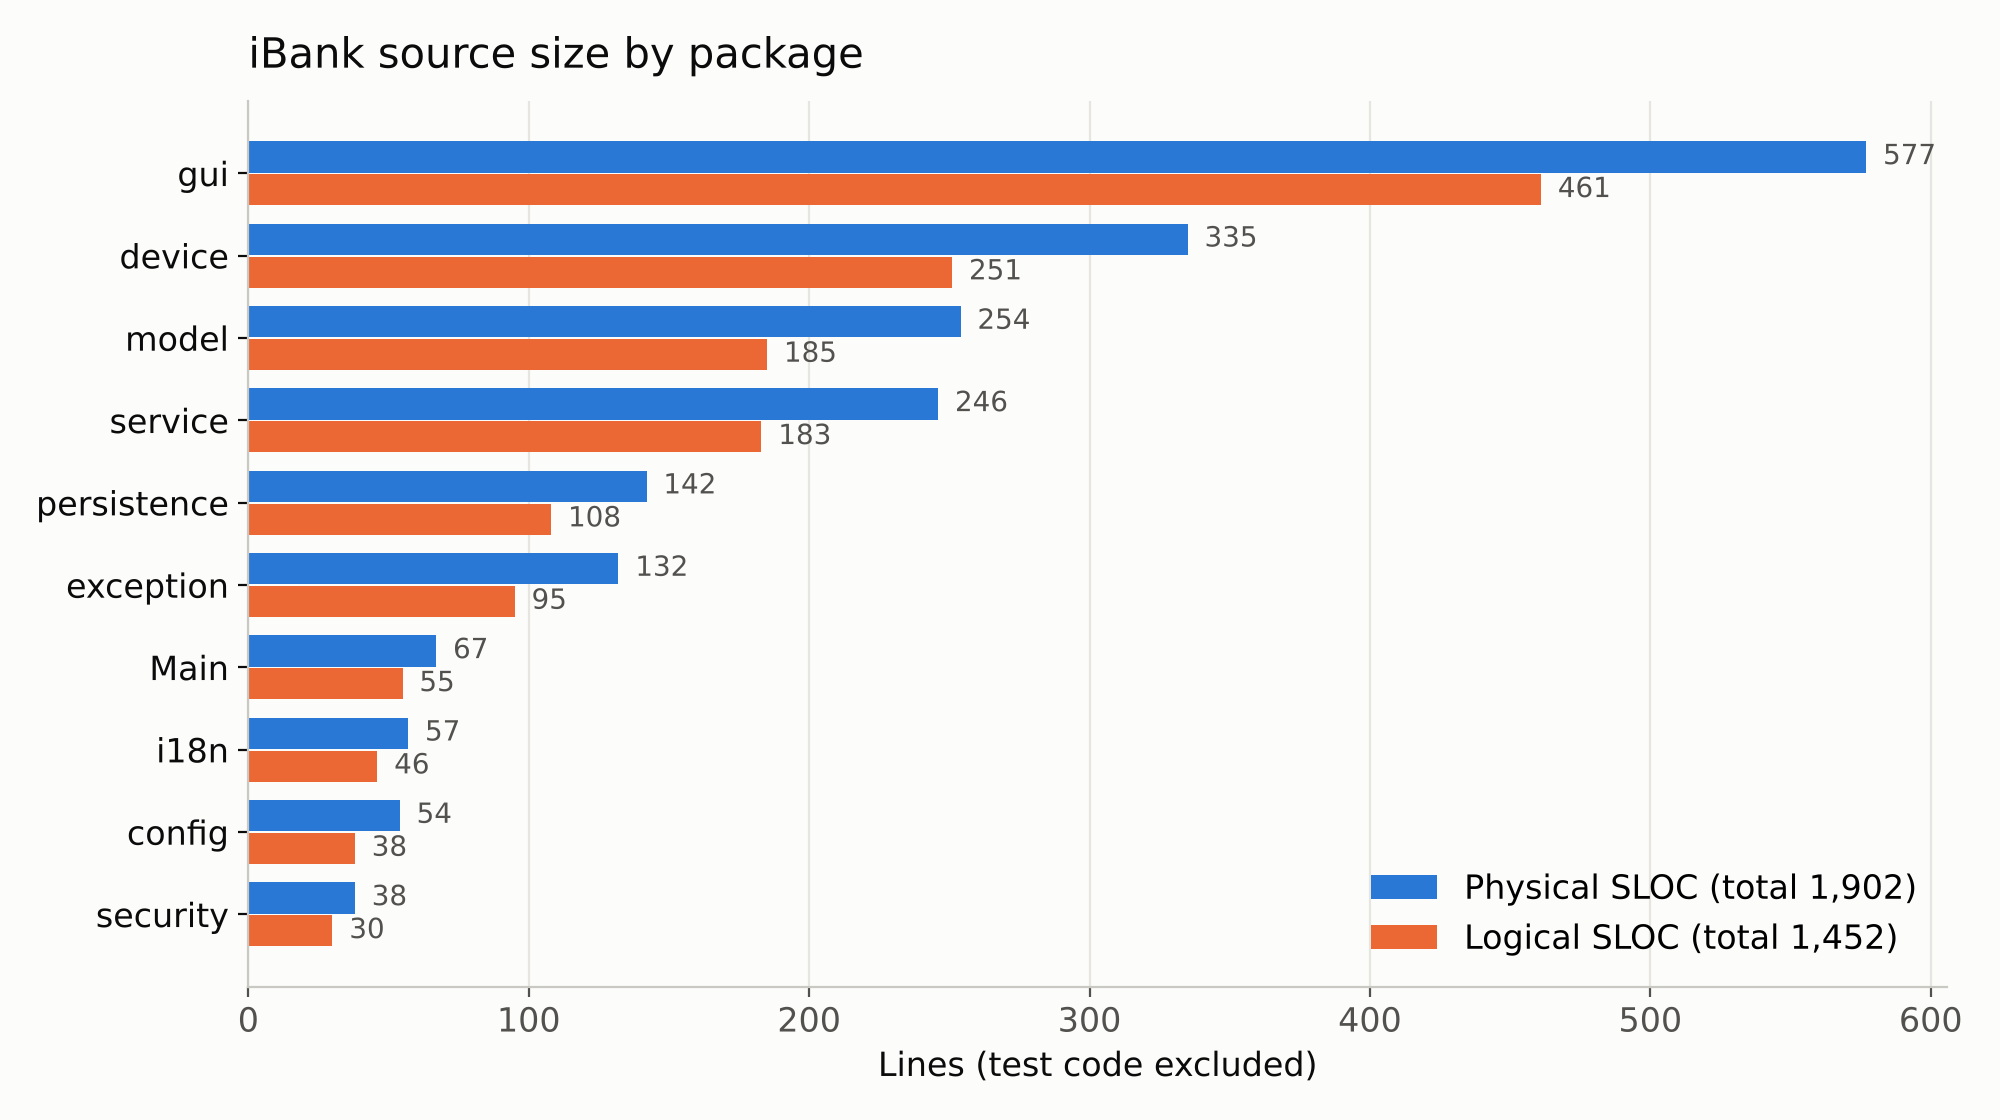
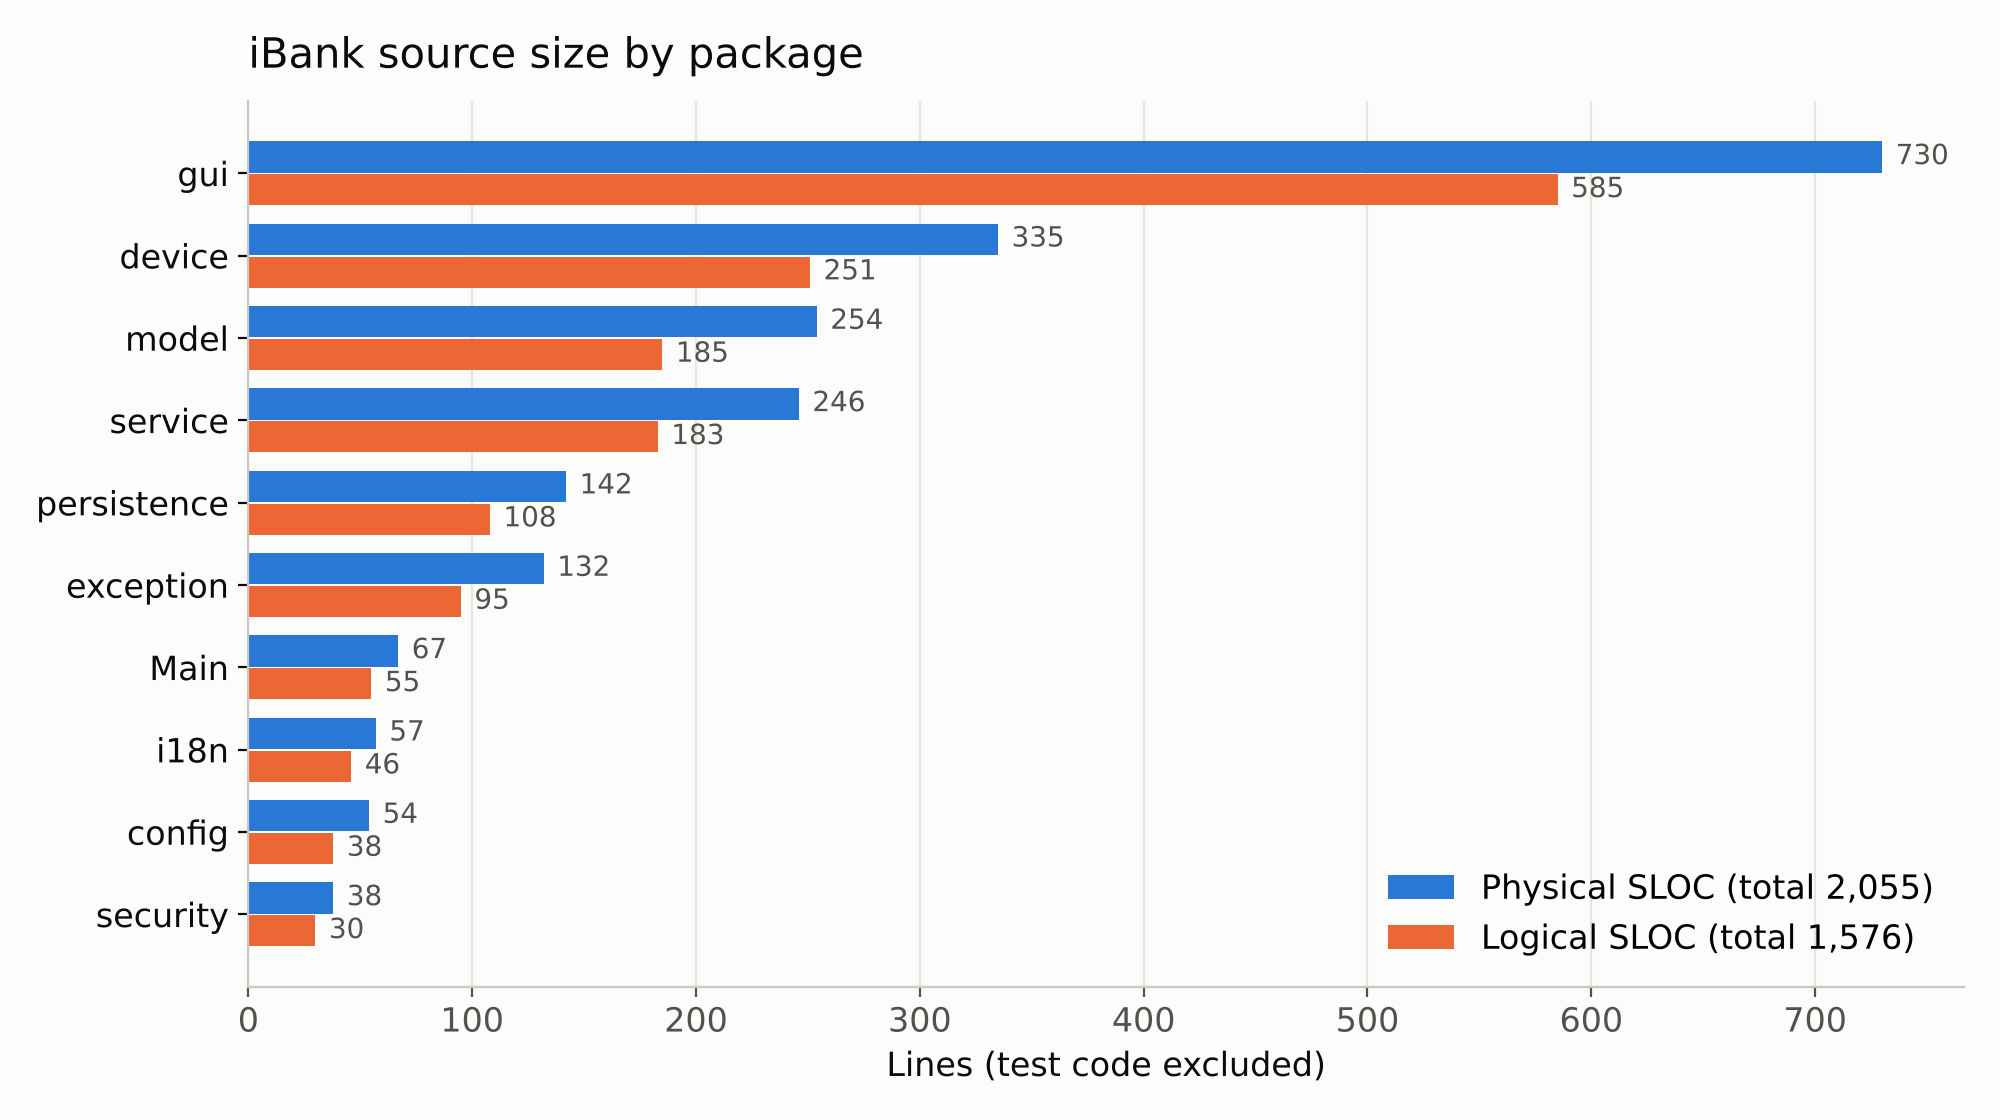
D2: GUI update (keypad, ATM-style look) and matching P5/P6 measurement

diff --git a/src/ibank/gui/BaseScreen.java b/src/ibank/gui/BaseScreen.java
@@ -22,18 +22,18 @@ import javax.swing.JPanel;
 import javax.swing.SwingConstants;
 
 /**
- * Layout shared by every screen: a title at the top, a form in the middle, and large
- * buttons at the bottom. Screens only add their own fields and buttons, so the look
- * and the keyboard behaviour are the same everywhere (internal reuse).
+ * Layout shared by every screen: the iBank header bar, a title, a white panel with the
+ * form (and the on-screen keypad where needed), and large buttons at the bottom.
+ * Screens only add their own fields and buttons, so the look and the keyboard
+ * behaviour are the same everywhere (internal reuse).
  */
 public abstract class BaseScreen extends JPanel {
 
   private static final long serialVersionUID = 1L;
-  /** Dark blue on white: high contrast for readability. */
-  private static final Color TITLE_COLOUR = new Color(0, 51, 102);
   private static final int GAP = 12;
 
   protected final transient AtmFrame frame;
+  private final JPanel panel = new JPanel(new BorderLayout(GAP * 2, 0));
   private final JPanel form = new JPanel(new GridBagLayout());
   private final JPanel buttons = new JPanel(new FlowLayout(FlowLayout.CENTER, GAP, GAP));
   private int nextRow;
@@ -41,18 +41,47 @@ public abstract class BaseScreen extends JPanel {
 
   /** Builds the shared layout with a title in the chosen language. */
   protected BaseScreen(AtmFrame frame, String titleKey, Object... titleArgs) {
-    super(new BorderLayout(GAP, GAP));
+    super(new BorderLayout());
     this.frame = frame;
-    setBorder(BorderFactory.createEmptyBorder(24, 32, 24, 32));
-    setBackground(Color.WHITE);
-    form.setOpaque(false);
-    buttons.setOpaque(false);
-    JLabel title = new JLabel(text().get(titleKey, titleArgs), SwingConstants.CENTER);
+    setBackground(Theme.PAGE);
+    add(headerBar(), BorderLayout.NORTH);
+    add(body(text().get(titleKey, titleArgs)), BorderLayout.CENTER);
+  }
+
+  /** The dark bar at the top: "iBank" on the left, the branch on the right. */
+  private JPanel headerBar() {
+    JPanel bar = new JPanel(new BorderLayout());
+    bar.setBackground(Theme.NAVY);
+    bar.setBorder(BorderFactory.createEmptyBorder(12, 24, 12, 24));
+    JLabel brand = new JLabel("iBank");
+    brand.setFont(brand.getFont().deriveFont(Font.BOLD, 26f));
+    brand.setForeground(Color.WHITE);
+    JLabel branch = new JLabel(text().get("header.branch"));
+    branch.setForeground(Color.WHITE);
+    bar.add(brand, BorderLayout.WEST);
+    bar.add(branch, BorderLayout.EAST);
+    return bar;
+  }
+
+  /** The title, the white panel holding the form, and the button row. */
+  private JPanel body(String titleText) {
+    JPanel body = new JPanel(new BorderLayout(GAP, GAP));
+    body.setOpaque(false);
+    body.setBorder(BorderFactory.createEmptyBorder(16, 32, 8, 32));
+    JLabel title = new JLabel(titleText, SwingConstants.CENTER);
     title.setFont(title.getFont().deriveFont(Font.BOLD, 26f));
-    title.setForeground(TITLE_COLOUR);
-    add(title, BorderLayout.NORTH);
-    add(form, BorderLayout.CENTER);
-    add(buttons, BorderLayout.SOUTH);
+    title.setForeground(Theme.NAVY);
+    panel.setBackground(Theme.PANEL);
+    panel.setBorder(BorderFactory.createCompoundBorder(
+        BorderFactory.createLineBorder(Theme.LINE, 1, true),
+        BorderFactory.createEmptyBorder(16, 24, 16, 24)));
+    form.setOpaque(false);
+    panel.add(form, BorderLayout.CENTER);
+    buttons.setOpaque(false);
+    body.add(title, BorderLayout.NORTH);
+    body.add(panel, BorderLayout.CENTER);
+    body.add(buttons, BorderLayout.SOUTH);
+    return body;
   }
 
   /** The text in the cardholder's chosen language. */
@@ -82,6 +111,11 @@ public abstract class BaseScreen extends JPanel {
     }
   }
 
+  /** Adds a line of text to the form that wraps instead of being cut off. */
+  protected void addNote(String note) {
+    addLine(new JLabel("<html><div style='width:330px'>" + note + "</div></html>"));
+  }
+
   /** Adds a full-width line of text or a component to the form. */
   protected void addLine(Component component) {
     GridBagConstraints c = new GridBagConstraints();
@@ -92,9 +126,22 @@ public abstract class BaseScreen extends JPanel {
     form.add(component, c);
   }
 
-  /** Adds a large button at the bottom of the screen. */
+  /** Adds the on-screen number pad to the right of the form. */
+  protected void addKeypad(boolean withDecimalPoint) {
+    panel.add(new KeypadPanel(text(), withDecimalPoint), BorderLayout.EAST);
+  }
+
+  /**
+   * Adds a large button at the bottom of the screen. The first button is the main
+   * action (dark blue); later ones are secondary (white).
+   */
   protected JButton addButton(String key, Runnable onClick) {
     JButton button = new JButton(text().get(key));
+    if (buttons.getComponentCount() == 0) {
+      Theme.primary(button);
+    } else {
+      Theme.secondary(button);
+    }
     button.setFont(button.getFont().deriveFont(Font.BOLD, 20f));
     button.setPreferredSize(new Dimension(
         Math.max(160, button.getPreferredSize().width + 24), 56)); // Large, easy to press.

diff --git a/src/ibank/gui/KeypadPanel.java b/src/ibank/gui/KeypadPanel.java
@@ -1,0 +1,99 @@
+package ibank.gui;
+
+import ibank.i18n.Messages;
+import java.awt.BorderLayout;
+import java.awt.Component;
+import java.awt.Dimension;
+import java.awt.GridLayout;
+import java.awt.KeyboardFocusManager;
+import javax.swing.JButton;
+import javax.swing.JLabel;
+import javax.swing.JPanel;
+import javax.swing.text.BadLocationException;
+import javax.swing.text.Document;
+import javax.swing.text.JTextComponent;
+
+/**
+ * An on-screen number pad, as on a real ABM. Each key types into whichever field has
+ * the cursor (card number, PIN or amount). The keys never take the cursor themselves,
+ * so the cardholder can move between fields by clicking them.
+ */
+public class KeypadPanel extends JPanel {
+
+  private static final long serialVersionUID = 1L;
+  private static final Dimension KEY_SIZE = new Dimension(78, 60);
+
+  /**
+   * Creates the keypad.
+   *
+   * @param withDecimalPoint true on amount screens, where "." is needed for cents
+   */
+  public KeypadPanel(Messages text, boolean withDecimalPoint) {
+    super(new BorderLayout(0, 8));
+    setOpaque(false);
+    JPanel grid = new JPanel(new GridLayout(4, 3, 8, 8));
+    grid.setOpaque(false);
+    for (String digit : new String[] {"1", "2", "3", "4", "5", "6", "7", "8", "9"}) {
+      grid.add(key(digit, false, () -> type(digit)));
+    }
+    grid.add(withDecimalPoint ? key(".", false, () -> type(".")) : new JLabel());
+    grid.add(key("0", false, () -> type("0")));
+    grid.add(new JLabel());
+    JPanel corrections = new JPanel(new GridLayout(1, 2, 8, 0)); // Wide keys fit the labels.
+    corrections.setOpaque(false);
+    corrections.add(key(text.get("keypad.delete"), false, KeypadPanel::deleteLast));
+    corrections.add(key(text.get("keypad.clear"), true, KeypadPanel::clearField));
+    add(grid, BorderLayout.CENTER);
+    add(corrections, BorderLayout.SOUTH);
+  }
+
+  private static JButton key(String label, boolean isClear, Runnable action) {
+    JButton button = new JButton(label);
+    Theme.key(button, isClear);
+    if (label.length() > 1) {
+      button.setFont(button.getFont().deriveFont(18f)); // Word keys: smaller text.
+    }
+    button.setPreferredSize(KEY_SIZE);
+    button.setFocusable(false); // Keeps the cursor in the field being typed into.
+    button.addActionListener(event -> action.run());
+    return button;
+  }
+
+  /** The editable field that has the cursor, or null if there is none. */
+  private static JTextComponent focusedField() {
+    Component owner = KeyboardFocusManager.getCurrentKeyboardFocusManager().getFocusOwner();
+    if (owner instanceof JTextComponent && ((JTextComponent) owner).isEditable()) {
+      return (JTextComponent) owner;
+    }
+    return null;
+  }
+
+  private static void type(String characters) {
+    JTextComponent field = focusedField();
+    if (field != null) {
+      field.replaceSelection(characters);
+    }
+  }
+
+  private static void deleteLast() {
+    JTextComponent field = focusedField();
+    if (field == null) {
+      return;
+    }
+    Document document = field.getDocument();
+    if (document.getLength() > 0) {
+      try {
+        document.remove(document.getLength() - 1, 1);
+      } catch (BadLocationException e) {
+        // Cannot happen: the position is always inside the text.
+      }
+    }
+  }
+
+  private static void clearField() {
+    JTextComponent field = focusedField();
+    if (field != null) {
+      field.setText("");
+    }
+  }
+}

diff --git a/src/ibank/gui/Theme.java b/src/ibank/gui/Theme.java
@@ -1,0 +1,58 @@
+package ibank.gui;
+
+import java.awt.Color;
+import java.awt.Font;
+import javax.swing.BorderFactory;
+import javax.swing.JButton;
+import javax.swing.border.Border;
+
+/**
+ * The ABM's colours and button styles, kept in one place so every screen looks the
+ * same. Colours follow real ABM conventions: a dark header, high-contrast text, and a
+ * yellow Clear key.
+ */
+public final class Theme {
+
+  /** Header bar and main buttons: dark blue. */
+  public static final Color NAVY = new Color(0, 51, 102);
+  /** Page background behind the white panel. */
+  public static final Color PAGE = new Color(236, 240, 246);
+  /** Panel and secondary-button background. */
+  public static final Color PANEL = Color.WHITE;
+  /** Body text: near black for contrast. */
+  public static final Color INK = new Color(20, 24, 31);
+  /** Thin lines around panels and keys. */
+  public static final Color LINE = new Color(196, 204, 216);
+  /** The Clear key, yellow as on most ABM keypads. */
+  public static final Color CLEAR_KEY = new Color(242, 194, 0);
+
+  private Theme() {
+    // Constants and helpers only.
+  }
+
+  /** Styles a main action (OK, menu choices): white text on dark blue. */
+  public static void primary(JButton button) {
+    style(button, NAVY, Color.WHITE, NAVY);
+  }
+
+  /** Styles a secondary action (Back, Cancel): dark blue text on white. */
+  public static void secondary(JButton button) {
+    style(button, PANEL, NAVY, NAVY);
+  }
+
+  /** Styles a keypad key: dark text on white, or on yellow for Clear. */
+  public static void key(JButton button, boolean isClear) {
+    style(button, isClear ? CLEAR_KEY : PANEL, INK, LINE);
+    button.setFont(button.getFont().deriveFont(Font.BOLD, 22f));
+  }
+
+  private static void style(JButton button, Color fill, Color text, Color edge) {
+    button.setBackground(fill);
+    button.setForeground(text);
+    button.setOpaque(true);
+    button.setFocusPainted(false);
+    Border outline = BorderFactory.createLineBorder(edge, 2, true);
+    button.setBorder(BorderFactory.createCompoundBorder(
+        outline, BorderFactory.createEmptyBorder(8, 18, 8, 18)));
+  }
+}

diff --git a/src/ibank/gui/AmountScreen.java b/src/ibank/gui/AmountScreen.java
@@ -7,7 +7,6 @@ import ibank.model.Money;
 import ibank.model.Transaction;
 import javax.swing.JButton;
 import javax.swing.JComboBox;
-import javax.swing.JLabel;
 import javax.swing.JTextField;
 
 /**
@@ -33,7 +32,8 @@ public class AmountScreen extends BaseScreen {
     this.handler = handler;
     addField("field.account", account);
     addField("field.amount", amount);
-    addLine(new JLabel(hint));
+    addKeypad(true);
+    addNote(hint);
     JButton ok = addButton("button.ok", this::confirm);
     addButton("button.back", frame::showMenu);
     setEnterButton(ok);

diff --git a/src/ibank/gui/MenuScreen.java b/src/ibank/gui/MenuScreen.java
@@ -28,6 +28,7 @@ public class MenuScreen extends BaseScreen {
 
   private JButton menuButton(String key, Runnable onClick) {
     JButton button = new JButton(text().get(key));
+    Theme.secondary(button);
     button.setFont(button.getFont().deriveFont(Font.BOLD, 22f));
     button.setPreferredSize(BUTTON_SIZE); // Large targets are easier to press.
     button.addActionListener(event -> onClick.run());

diff --git a/src/ibank/gui/AtmFrame.java b/src/ibank/gui/AtmFrame.java
@@ -48,7 +48,7 @@ public class AtmFrame extends JFrame {
     this.dispenser = dispenser;
     this.saveState = saveState;
     setDefaultCloseOperation(WindowConstants.EXIT_ON_CLOSE);
-    setMinimumSize(new Dimension(760, 560));
+    setMinimumSize(new Dimension(960, 700));
     setLocationRelativeTo(null);
     watchForInactivity();
     showScreen(new WelcomeScreen(this));

diff --git a/src/ibank/gui/LoginScreen.java b/src/ibank/gui/LoginScreen.java
@@ -20,6 +20,7 @@ public class LoginScreen extends BaseScreen {
     super(frame, "login.title");
     addField("login.card", cardNumber);
     addField("login.pin", pin);
+    addKeypad(false);
     JButton ok = addButton("button.ok", this::logIn);
     addButton("button.cancel", () -> frame.showScreen(new WelcomeScreen(frame)));
     setEnterButton(ok);

diff --git a/test/ibank/service/TransactionServiceTest.java b/test/ibank/service/TransactionServiceTest.java
@@ -51,6 +51,7 @@ class TransactionServiceTest {
       assertEquals(Money.cad(1850), bank.dispenser.getTotalCash());
       assertEquals(0, bank.bankCore.getTransactions(bank.main).size());
     }
+
     @Test
     @DisplayName("A valid withdrawal lowers the balance, removes notes and is recorded")
     void validWithdrawal() throws Exception {

diff --git a/src/ibank/gui/TransferScreen.java b/src/ibank/gui/TransferScreen.java
@@ -24,6 +24,7 @@ public class TransferScreen extends BaseScreen {
     addField("transfer.from", from);
     addField("transfer.to", to);
     addField("field.amount", amount);
+    addKeypad(true);
     JButton ok = addButton("button.ok", this::transfer);
     addButton("button.back", frame::showMenu);
     setEnterButton(ok);

diff --git a/src/ibank/gui/ChangePinScreen.java b/src/ibank/gui/ChangePinScreen.java
@@ -16,6 +16,7 @@ public class ChangePinScreen extends BaseScreen {
     super(frame, "pin.title");
     addField("pin.new", newPin);
     addField("pin.confirm", confirmation);
+    addKeypad(false);
     JButton ok = addButton("button.ok", this::change);
     addButton("button.back", frame::showMenu);
     setEnterButton(ok);
